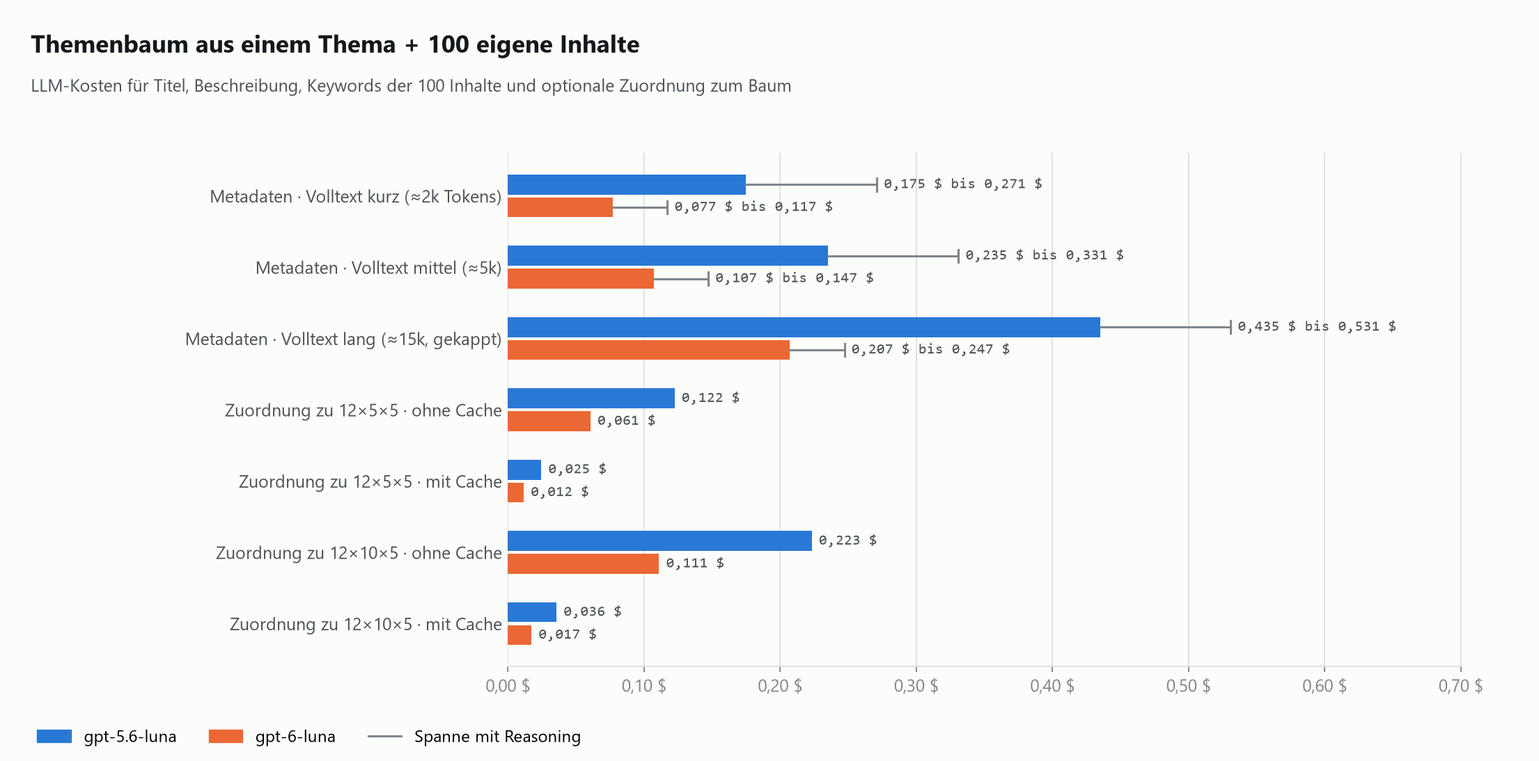
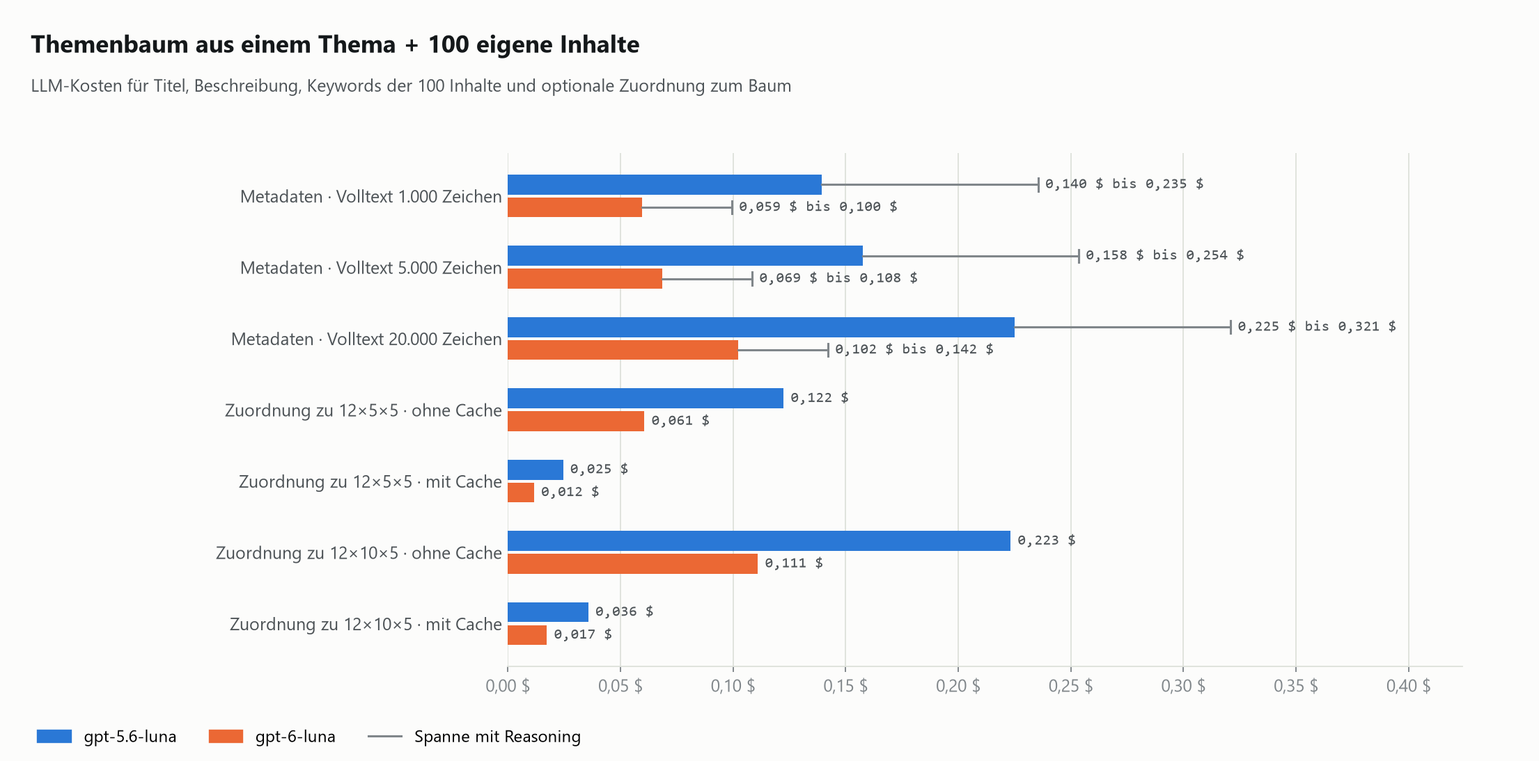
Kosten: Volltext 1.000 Zeichen, Kompendium mit Input-Caching
- Inhaltsmetadaten aus Webseiten-Volltext: Eingabe in Zeichen, Standard 1.000
  Zeichen (gemessen 0,225 Tokens je Zeichen), kein Caching je Inhalt
- Kompendium: 60–90 Tsd. Tokens je Knoten, 50–60 % Input aus dem Cache;
  Rechner mit Feld "Input aus Cache (%)", Standard 75 Tsd. / 5 Tsd. Output / 55 %
- Themenbaum aus Inhalten: Korpus = erzeugte Metadaten (+ Volltext), Caching nur
  bei diesem großen, gleichbleibenden Kontext
- Kostenmodell, Grafiken, Doku und App-Texte neu gerechnet; Übersichtsgrafik und
  interaktives Diagramm stimmen mit den Standardwerten überein

diff --git a/themenbaum/static/kosten.html b/themenbaum/static/kosten.html
@@ -110,8 +110,8 @@ code{font-family:var(--mono);font-size:.9em;background:var(--accent-soft);paddin
 
   <div class="facts">
     <div class="fact"><span class="k">Themenbaum 12×5×5 (372 Knoten)</span><span class="v">0,07 – 0,16 $</span><span class="s">73 LLM-Aufrufe; 6-luna bis 5.6-luna</span></div>
-    <div class="fact"><span class="k">Kompendium für 372 Knoten</span><span class="v">2,83 – 8,18 $</span><span class="s">60–80 Tsd. Tokens je Knoten, über 90 % der Kosten</span></div>
-    <div class="fact"><span class="k">Metadaten für 100 Inhalte</span><span class="v">0,11 – 0,24 $</span><span class="s">Titel, Beschreibung (500 Wörter), Keywords; Volltext ≈ 5 Tsd. Tokens</span></div>
+    <div class="fact"><span class="k">Kompendium für 372 Knoten</span><span class="v">1,70 – 6,12 $</span><span class="s">60–90 Tsd. Tokens je Knoten, 50–60 % Input aus dem Cache</span></div>
+    <div class="fact"><span class="k">Metadaten für 100 Inhalte</span><span class="v">0,06 – 0,14 $</span><span class="s">Titel, Beschreibung (500 Wörter), Keywords aus je 1.000 Zeichen Volltext</span></div>
     <div class="fact"><span class="k">Überarbeitungswunsch (nur Zweig)</span><span class="v">0,01 – 0,02 $</span><span class="s">ganzer Baum neu: 0,04 – 0,10 $</span></div>
   </div>
 
@@ -164,7 +164,7 @@ code{font-family:var(--mono);font-size:.9em;background:var(--accent-soft);paddin
         <label for="items">Anzahl Inhalte: <b id="itemsOut">100</b><input type="range" id="items" min="0" max="5000" step="10" value="100"></label>
         <div class="row">
           <label for="itemsExact">genau<input type="number" id="itemsExact" min="0" max="1000000" value="100"></label>
-          <label for="fulltext">Volltext-Tokens je Inhalt<input type="number" id="fulltext" value="5000" min="0" step="500"></label>
+          <label for="fulltext">Volltext je Inhalt (Zeichen)<input type="number" id="fulltext" value="1000" min="0" step="500"></label>
           <label for="metaWords">Wörter je Inhaltsbeschreibung<input type="number" id="metaWords" value="500" min="0" max="3000" step="50"></label>
         </div>
         <label class="check" for="assign"><input type="checkbox" id="assign" checked> Inhalte dem Baum zuordnen (Baum im Cache)</label>
@@ -174,8 +174,9 @@ code{font-family:var(--mono);font-size:.9em;background:var(--accent-soft);paddin
         <label class="check" for="komp"><input type="checkbox" id="komp" checked> Kompendium-Text erzeugen</label>
         <div class="row">
           <label for="kompNodes">für<select id="kompNodes"><option value="all">alle Knoten</option><option value="l12">nur Ebene 1 und 2</option></select></label>
-          <label for="kompTok">Tokens je Knoten<input type="number" id="kompTok" value="70000" min="0" step="5000"></label>
+          <label for="kompTok">Tokens je Knoten<input type="number" id="kompTok" value="75000" min="0" step="5000"></label>
           <label for="kompOut">davon Output<input type="number" id="kompOut" value="5000" min="0" step="500"></label>
+          <label for="kompHit">Input aus Cache (%)<input type="number" id="kompHit" value="55" min="0" max="100" step="5"></label>
         </div>
       </fieldset>
       <label for="runs">Läufe pro Monat<input type="number" id="runs" value="1" min="0" max="100000"></label>
@@ -195,11 +196,11 @@ code{font-family:var(--mono);font-size:.9em;background:var(--accent-soft);paddin
           <tr><td>Themenbaum 12×10×5, aktueller Code (133 Aufrufe)</td><td class="n">0,151 $</td><td class="n">0,330 $</td></tr>
           <tr><td>Themenbaum 12×10×5, Fall „hoch“ (100 Wörter + Reasoning)</td><td class="n">0,267 $</td><td class="n">0,600 $</td></tr>
           <tr><td>Überarbeitung 12×10×5: ganzer Baum / nur Zweig / Zweig + Cache</td><td class="n">0,084 / 0,020 / 0,011 $</td><td class="n">0,197 / 0,042 / 0,023 $</td></tr>
-          <tr><td>Metadaten 100 Inhalte: Volltext kurz / mittel / lang</td><td class="n">0,077 / 0,107 / 0,207 $</td><td class="n">0,175 / 0,235 / 0,435 $</td></tr>
+          <tr><td>Metadaten 100 Inhalte: Volltext 1.000 / 5.000 / 20.000 Zeichen</td><td class="n">0,060 / 0,069 / 0,102 $</td><td class="n">0,140 / 0,158 / 0,225 $</td></tr>
           <tr><td>Zuordnung 100 Inhalte zu 12×5×5: ohne / mit Cache</td><td class="n">0,061 / 0,012 $</td><td class="n">0,122 / 0,025 $</td></tr>
-          <tr><td>Baum aus 100 Inhalten 12×5×5, Volltext mittel: ohne / mit Cache</td><td class="n">3,88 / 0,49 $</td><td class="n">7,77 / 0,99 $</td></tr>
-          <tr><td>Kompendium 12×5×5 (372 Knoten)</td><td class="n">2,83 – 3,87 $</td><td class="n">5,95 – 8,18 $</td></tr>
-          <tr><td>Kompendium 12×10×5 (732 Knoten)</td><td class="n">5,56 – 7,61 $</td><td class="n">11,71 – 16,10 $</td></tr>
+          <tr><td>Baum aus 100 Inhalten 12×5×5, Metadaten + Volltext (1.000 Zeichen) im Kontext: ohne / mit Cache</td><td class="n">0,96 / 0,15 $</td><td class="n">1,94 / 0,32 $</td></tr>
+          <tr><td>Kompendium 12×5×5 (372 Knoten)</td><td class="n">1,70 – 2,83 $</td><td class="n">3,70 – 6,12 $</td></tr>
+          <tr><td>Kompendium 12×10×5 (732 Knoten)</td><td class="n">3,35 – 5,58 $</td><td class="n">7,28 – 12,03 $</td></tr>
         </tbody>
       </table></div>
       <div class="gallery">
@@ -224,8 +225,9 @@ code{font-family:var(--mono);font-size:.9em;background:var(--accent-soft);paddin
       <ul>
         <li>System-Prompt 578 Tokens; ein Knoten im Output 182 Tokens bei 60 Wörtern Beschreibung (+2 Tokens je weiterem Wort).</li>
         <li>Aufrufe: 1 für die Hauptthemen, 1 je Hauptthema, 1 je Unterthema. Die Modelle schöpfen die Obergrenzen voll aus.</li>
-        <li>Metadaten: Anweisung 582 Tokens + Volltext je Inhalt; Output 65 Tokens (Titel, Keywords) + 1,925 Tokens je Wort Beschreibung, Standard 500 Wörter ≈ 1.030 Tokens. Zuordnung: Titelliste des Baums (14 Tokens je Knoten) im Cache.</li>
-        <li>Kompendium: gemessene 60–80 Tsd. Tokens und 30–40 s je Knoten; gerechnet mit 4–6 Tsd. Output, Rest Input.</li>
+        <li>Metadaten: je Inhalt aus dem Volltext der Webseite (Standard 1.000 Zeichen ≈ 225 Tokens; 0,225 Tokens je Zeichen gemessen), Anweisung 582 Tokens, kein Caching (jeder Inhalt hat einen eigenen Volltext); Output 65 Tokens (Titel, Keywords) + 1,925 Tokens je Wort Beschreibung, Standard 500 Wörter ≈ 1.030 Tokens. Zuordnung: Titelliste des Baums (14 Tokens je Knoten) im Cache.</li>
+        <li>Kompendium: 60–90 Tsd. Tokens und 30–40 s je Knoten, davon 4–6 Tsd. Output; 50–60 % des Inputs kommen aus dem Cache (Cache-Lesepreis). Standard im Rechner: 75 Tsd., 5 Tsd. Output, 55 %.</li>
+        <li>Caching beim Themenbaum lohnt nur, wenn ein großer Kontext für jede Knotenabfrage gleich bleibt, z. B. der Korpus aller Inhalte („Themenbaum aus Inhalten“); beim normalen Baum ist der gemeinsame Teil zu klein.</li>
         <li>Tokenizer o200k als Näherung (±10–15 %). Nicht enthalten: Crawler, Hosting, Wiederholungen nach Fehlern.</li>
       </ul>
     </div>
@@ -262,8 +264,8 @@ function applyPreset(){const p=PRESETS[$("#preset").value];if(!p)return;$("#pIn"
 function params(){
   return {NM:Math.round(num("n1")),NS:Math.round(num("n2")),NL:Math.round(num("n3")),words:num("words"),R:num("reason"),
     fix:$("#code").value==="fix",loops:Math.round(num("loops")),loopMode:$("#loopMode").value,
-    n:Math.round(num("itemsExact")),ft:num("fulltext"),metaWords:num("metaWords"),assign:$("#assign").checked,
-    komp:$("#komp").checked,kompAll:$("#kompNodes").value==="all",kompTok:num("kompTok"),kompOut:num("kompOut")};
+    n:Math.round(num("itemsExact")),ft:Math.round(num("fulltext")*0.225),metaWords:num("metaWords"),assign:$("#assign").checked,
+    kompHit:Math.min(100,num("kompHit"))/100,komp:$("#komp").checked,kompAll:$("#kompNodes").value==="all",kompTok:num("kompTok"),kompOut:num("kompOut")};
 }
 function tree(p,fix){
   const extra=1.925*(p.words-60), node=190+extra, rep=245+extra;
@@ -298,8 +300,8 @@ function partTreeFromCorpus(p,pr,perItem,cached){  // Korpus aller Inhalte in je
 }
 function partKomp(p,pr){
   if(!p.komp)return {i:0,o:0,c:0,k:0};
-  const t=tree(p,p.fix),k=p.kompAll?t.nodes:p.NM+p.NM*p.NS,o=Math.min(p.kompOut,p.kompTok);
-  return {i:k*(p.kompTok-o),o:k*o,c:cost(pr,k*(p.kompTok-o),k*o),k};
+  const t=tree(p,p.fix),k=p.kompAll?t.nodes:p.NM+p.NM*p.NS,o=Math.min(p.kompOut,p.kompTok),inp=k*(p.kompTok-o);
+  return {i:inp,o:k*o,c:cost(pr,inp*(1-p.kompHit),k*o,inp*p.kompHit),k};  // Cache-Treffer zum Cache-Lesepreis
 }
 const Z={i:0,o:0,c:0};
 function useCases(p,pr){
@@ -309,7 +311,8 @@ function useCases(p,pr){
   if(p.n>0){
     cases.push({key:"own",name:`… + ${n} eigene Inhalte`,parts:{tree:tr,rev:Z,meta:partMeta(p,pr,p.assign),komp:kp}});
     const meta=partMeta(p,pr,false);
-    const a=partTreeFromCorpus(p,pr,250,true),b=partTreeFromCorpus(p,pr,250+p.ft,true),c=partTreeFromCorpus(p,pr,250+p.ft,false);
+    const metaTok=Math.round(65+1.925*p.metaWords);  // Korpus = erzeugte Metadaten je Inhalt (+ Volltext)
+    const a=partTreeFromCorpus(p,pr,metaTok,true),b=partTreeFromCorpus(p,pr,metaTok+p.ft,true),c=partTreeFromCorpus(p,pr,metaTok+p.ft,false);
     cases.push({key:"cmeta",name:`Themenbaum aus ${n} Inhalten – nur Metadaten (Cache)`,parts:{tree:a,rev:Z,meta,komp:kp},corp:a.corp});
     cases.push({key:"cft",name:`Themenbaum aus ${n} Inhalten – mit Volltext (Cache)`,parts:{tree:b,rev:Z,meta,komp:kp},corp:b.corp});
     cases.push({key:"cftnc",name:`Themenbaum aus ${n} Inhalten – mit Volltext (ohne Cache)`,parts:{tree:c,rev:Z,meta,komp:kp},corp:c.corp});

diff --git a/scripts/kostenmodell.py b/scripts/kostenmodell.py
@@ -66,27 +66,37 @@ INSTR = t(DESCRIPTION_PROMPT_TEMPLATE)+200
 # Metadaten-Output je Inhalt: Titel, Keywords, JSON (~65 Tokens) + Beschreibung (1,925 Tokens je Wort, Deutsch).
 META_WORDS = 500
 META_OUT = round(65 + 1.925 * META_WORDS)
-for label,ft in {"Volltext kurz (≈2k Tokens)":2000,"Volltext mittel (≈5k)":5000,"Volltext lang (≈15k, gekappt)":15000}.items():
-    tin=100*(INSTR+ft)
-    D["uc2"].append(dict(label=label,ft=ft,tin=tin,basis=dict(tout=100*META_OUT,**C(tin=tin,tout=100*META_OUT)),hoch=dict(tout=100*(META_OUT+800),**C(tin=tin,tout=100*(META_OUT+800)))))
+# Volltext der gecrawlten Webseite: gemessen 0,225 Tokens je Zeichen (deutsche Plattformtexte, o200k).
+TOK_PER_CHAR = 0.225
+FT_DEFAULT_CHARS = 1000
+def ft_tokens(chars): return round(chars * TOK_PER_CHAR)
+# Metadaten werden je Inhalt aus einem eigenen Volltext erzeugt: kein Prompt-Caching angesetzt.
+for label,chars in {"Volltext 1.000 Zeichen":1000,"Volltext 5.000 Zeichen":5000,"Volltext 20.000 Zeichen":20000}.items():
+    ft=ft_tokens(chars); tin=100*(INSTR+ft)
+    D["uc2"].append(dict(label=label,chars=chars,ft=ft,tin=tin,basis=dict(tout=100*META_OUT,**C(tin=tin,tout=100*META_OUT)),hoch=dict(tout=100*(META_OUT+800),**C(tin=tin,tout=100*(META_OUT+800)))))
 for s in ("12×5×5","12×10×5"):
     nodes=tree(*STRUCT[s])["nodes"]; tl=nodes*14+300
     D["assign"].append(dict(struct=s,titlelist=tl,ohne=C(tin=100*(tl+250),tout=100*60),mit=C(tin=100*250,tout=100*60,twrite=tl,tcached=99*tl)))
-# UC3: corpus of 100 contents in context of every generator call (prompt fixed + corpus as static prefix)
-CORPUS = {"nur Metadaten (≈250/Inhalt)":250, "Metadaten + Volltext kurz (≈2,25k/Inhalt)":2250, "Metadaten + Volltext mittel (≈5,25k/Inhalt)":5250}
-META_PRE = {250:5000, 2250:2000, 5250:5000}  # Metadaten-Erzeugung vorab (Volltextlänge)
+# UC3: Korpus aller 100 Inhalte (erzeugte Metadaten, wahlweise + Volltext) in jedem Generator-Aufruf.
+# Caching lohnt hier, weil der große Kontext für jede Knotenabfrage gleich bleibt (umgebaute Prompts: Korpus vorne).
+CORPUS = {"nur Metadaten":META_OUT, "Metadaten + Volltext 1.000 Zeichen":META_OUT+ft_tokens(1000),
+          "Metadaten + Volltext 5.000 Zeichen":META_OUT+ft_tokens(5000)}
+meta_default=[x for x in D["uc2"] if x["chars"]==FT_DEFAULT_CHARS][0]["basis"]
 for s in ("12×5×5","12×10×5"):
     d=tree(*STRUCT[s],fix=True)
     for label,per in CORPUS.items():
         corp=100*per+300
-        meta=[x for x in D["uc2"] if x["ft"]==META_PRE[per]][0]["basis"]
         no = C(tin=d["tin"]+d["calls"]*corp, tout=d["tout"])
         yes= {m: round(cost(m,tin=d["tin"],tout=d["tout"],twrite=corp,tcached=(d["calls"]-1)*corp),4) for m in M}
-        D["uc3"].append(dict(struct=s,label=label,corpus_tok=corp,calls=d["calls"],tin_nocache=d["tin"]+d["calls"]*corp,ohne=no,mit=yes,meta=meta))
+        D["uc3"].append(dict(struct=s,label=label,corpus_tok=corp,calls=d["calls"],tin_nocache=d["tin"]+d["calls"]*corp,ohne=no,mit=yes,meta=meta_default))
+# Kompendium je Knoten: 60–90 Tsd. Tokens, 4–6 Tsd. Output, 50–60 % des Inputs aus dem Cache (Cache-Lesepreis).
+def komp_cost(n, total, out, hit):
+    inp = total - out
+    return {m: round(cost(m, tin=n*inp*(1-hit), tout=n*out, tcached=n*inp*hit), 4) for m in M}
 for s,(a,b,c) in STRUCT.items():
     n=tree(a,b,c)["nodes"]
-    D["komp"].append(dict(struct=s,nodes=n,low=C(tin=n*56000,tout=n*4000),high=C(tin=n*74000,tout=n*6000),
-        tok_low=n*60000,tok_high=n*80000,h_seq=round(n*35/3600,1),min_par10=round(n*35/10/60)))
+    D["komp"].append(dict(struct=s,nodes=n,low=komp_cost(n,60000,4000,0.60),high=komp_cost(n,90000,6000,0.50),
+        mid=komp_cost(n,75000,5000,0.55),tok_low=n*60000,tok_high=n*90000,h_seq=round(n*35/3600,1),min_par10=round(n*35/10/60)))
 D["prices"]=P
 json.dump(D, open(sys.argv[2],"w",encoding="utf-8"), ensure_ascii=False, indent=1)
 for k in ("uc3","komp"):

diff --git a/scripts/grafiken_kosten.py b/scripts/grafiken_kosten.py
@@ -25,13 +25,13 @@ def by(a, k, v): return next(x for x in a if x[k] == v)
 
 
 def komp(st, m):
-    k = by(D["komp"], "struct", st); return (k["low"][m] + k["high"][m]) / 2
+    return by(D["komp"], "struct", st)["mid"][m]
 
 
 def overview(st):
-    u1 = by(D["uc1"], "struct", st); rev = by(D["rev"], "struct", st); asg = by(D["assign"], "struct", st); u2 = D["uc2"][1]
+    u1 = by(D["uc1"], "struct", st); rev = by(D["rev"], "struct", st); asg = by(D["assign"], "struct", st); u2 = next(x for x in D["uc2"] if x["chars"] == 1000)
     u3 = lambda p: next(x for x in D["uc3"] if x["struct"] == st and x["label"].startswith(p))
-    a, b = u3("nur Metadaten"), u3("Metadaten + Volltext mittel")
+    a, b = u3("nur Metadaten"), u3("Metadaten + Volltext 1.000")
     spec = [
         ("Themenbaum aus einem Thema", lambda m: u1["basis_ist"][m], lambda m: 0),
         ("Themenbaum aus einem Thema + 1 Überarbeitung", lambda m: u1["basis_ist"][m] + rev["basis"]["B"][m], lambda m: 0),
@@ -85,7 +85,7 @@ def plot_overview(st, fn):
     fig.legend(hs, ["Themenbaum-Erzeugung", "Inhaltsmetadaten (inkl. Zuordnung)", "Kompendium-Generierung"], loc="lower left",
                bbox_to_anchor=(0.015, 1 - 1.45 / H), ncol=3, frameon=False, fontsize=10)
     fig.text(0.02, 0.12 / H,
-             "Annahmen: 60 Wörter je Knotenbeschreibung, 500 Wörter je Inhaltsbeschreibung, kein Reasoning · 100 Inhalte à ca. 5 Tsd. Tokens Volltext · Kompendium 70 Tsd. Tokens je Knoten (Mittel aus 60–80 Tsd.)\n"
+             "Annahmen: 60 Wörter je Knotenbeschreibung, 500 Wörter je Inhaltsbeschreibung, kein Reasoning · 100 Inhalte mit je 1.000 Zeichen Volltext · Kompendium 75 Tsd. Tokens je Knoten, 55 % Input aus dem Cache\n"
              "Überarbeitung = nur betroffener Zweig neu · „Aus 100 Inhalten“ mit umgebauten Prompts und Prompt-Caching (30 min)",
              ha="left", fontsize=8.5, color=MUTED)
     fig.savefig(f"{OUT}/{fn}", dpi=170); plt.close(fig)
@@ -155,6 +155,6 @@ for st, fn in (("12×5×5", "04_baum_aus_100_inhalten_12x5x5.png"), ("12×10×5"
             rows, whisk=False, labelw=0.3)
 
 rows = [{"label": f"{k['struct']} · {k['nodes']} Knoten", "vals": [V(k["low"][m], k["high"][m], m) for m in M]} for k in D["komp"]]
-grouped("05_kompendium.png", "Kompendium-Text je Knoten", "60–80 Tsd. Tokens und 30–40 s pro Knoten · Kosten für den ganzen Baum",
-        rows, note="Spanne 60 → 80 Tsd. Tokens/Knoten")
+grouped("05_kompendium.png", "Kompendium-Text je Knoten", "60–90 Tsd. Tokens und 30–40 s pro Knoten, 50–60 % des Inputs aus dem Cache · Kosten für den ganzen Baum",
+        rows, note="Spanne 60 Tsd. (60 % Cache) → 90 Tsd. Tokens (50 % Cache)")
 print("done")

diff --git a/docs/kosten.md b/docs/kosten.md
@@ -3,53 +3,62 @@
 Diese Analyse schätzt die LLM-Kosten des bestehenden Themenbaum-Generators
 (`topic-tree-generator`, FastAPI, API 1.2.6) für drei Use Cases. Sie war der
 Anlass für diese Demo: Lässt sich die Themenbaum-Erzeugung auch **ohne generatives LLM** umsetzen?
-Die Ergebnisse sind in der App unter **Kosten** kompakt aufbereitet, mit einem Rechner für eigene Annahmen.
+Die Ergebnisse sind in der App unter **Kosten** kompakt aufbereitet, mit einem interaktiven Diagramm und einem
+Rechner für eigene Annahmen.
 
 Alle Beträge in US-Dollar. Gerechnet für **gpt-6-luna** und **gpt-5.6-luna**.
 
 ## Kurzfassung
 
 - **Der Themenbaum selbst ist günstig:** 0,07–0,16 $ für 12×5×5 (372 Knoten), 0,15–0,33 $ für 12×10×5 (732 Knoten).
-- **Ein Kompendium-Text je Sammlung dominiert** mit über 90 % der Kosten: 2,83–8,18 $ für 372 Knoten. Bei mehreren
-  hundert Knoten kommt trotz kleiner Einzelbeträge einiges zusammen.
+- **Ein Kompendium-Text je Sammlung dominiert** mit über 90 % der Kosten: 1,70–6,12 $ für 372 Knoten
+  (60–90 Tsd. Tokens je Knoten, 50–60 % des Inputs aus dem Cache). Bei mehreren hundert Knoten kommt trotz kleiner
+  Einzelbeträge einiges zusammen.
 - **Inhalte skalieren linear mit der Menge:** beschreibende Metadaten (Titel, Beschreibung mit 500 Wörtern, Keywords)
-  kosten etwa 0,11–0,24 Cent je Inhalt; Fach und Bildungsstufe laufen ohne LLM.
+  aus je rund 1.000 Zeichen Webseiten-Volltext kosten etwa 0,06–0,14 Cent je Inhalt. Fach und Bildungsstufe laufen
+  ohne LLM. Caching gibt es hier kaum, weil jeder Inhalt einen eigenen Volltext hat.
 - **Überarbeitungswünsche sind billig**, wenn nur der betroffene Zweig neu erzeugt wird (1–4 Cent).
-- **Teuer wird es nur, wenn Volltexte vieler Inhalte in jeden Aufruf wandern** und kein Prompt-Caching genutzt wird
-  (bis 14 $ je Baum).
+- **Caching beim Themenbaum lohnt nur bei großem, gleichbleibendem Kontext**, etwa wenn die Metadaten aller Inhalte in
+  jede Knotenabfrage gehen: Der Baum kostet dann 0,15–0,32 $ mit Cache statt 0,96–1,94 $ ohne.
 
 ![Kosten je Use Case, Themenbaum 12×5×5](kosten/00_uebersicht_usecases_12x5x5.png)
 
 | Use Case (12×5×5, inkl. Kompendium) | gpt-6-luna | gpt-5.6-luna |
 |---|---:|---:|
-| Themenbaum aus einem Thema | 3,42 $ | 7,22 $ |
-| … + 1 Überarbeitung | 3,43 $ | 7,25 $ |
-| … + 100 eigene Inhalte | 3,54 $ | 7,48 $ |
-| Themenbaum aus 100 Inhalten, nur Metadaten | 3,52 $ | 7,45 $ |
-| Themenbaum aus 100 Inhalten, mit Volltext (mit Cache) | 3,94 $ | 8,29 $ |
-| Themenbaum aus 100 Inhalten, mit Volltext (ohne Cache) | 7,33 $ | 15,07 $ |
+| Themenbaum aus einem Thema | 2,32 $ | 5,02 $ |
+| … + 1 Überarbeitung | 2,33 $ | 5,04 $ |
+| … + 100 eigene Inhalte | 2,39 $ | 5,18 $ |
+| Themenbaum aus 100 Inhalten, nur Metadaten (Cache) | 2,44 $ | 5,28 $ |
+| Themenbaum aus 100 Inhalten, Metadaten + Volltext (Cache) | 2,45 $ | 5,32 $ |
+| Themenbaum aus 100 Inhalten, Metadaten + Volltext (ohne Cache) | 3,27 $ | 6,94 $ |
 
-Dieselbe Übersicht für 12×10×5: [`kosten/00b_uebersicht_usecases_12x10x5.png`](kosten/00b_uebersicht_usecases_12x10x5.png).
+Kompendium je Zeile: 2,25 $ bzw. 4,86 $. Dieselbe Übersicht für 12×10×5:
+[`kosten/00b_uebersicht_usecases_12x10x5.png`](kosten/00b_uebersicht_usecases_12x10x5.png).
 
-## Preise und Methode
+## Preise und Annahmen
 
 | Modell (je 1 Mio. Tokens) | Input | Output | Cache lesen | Cache schreiben (30 min) |
 |---|---:|---:|---:|---:|
 | gpt-6-luna | 0,10 $ | 0,50 $ | 0,01 $ | 0,125 $ |
 | gpt-5.6-luna | 0,20 $ | 1,20 $ | 0,02 $ | 0,25 $ |
 
-- Die Prompts stammen 1:1 aus `src/prompts.py` des Generators, gezählt mit dem o200k-Tokenizer (Abweichung zum echten
-  Tokenizer etwa ±10–15 %).
-- Ablauf des Generators: 1 Aufruf für die Hauptthemen, 1 je Hauptthema für die Unterthemen, 1 je Unterthema für die
-  Lehrplanthemen. 12×5×5 = 73 Aufrufe, 12×10×5 = 133 Aufrufe.
-- System-Prompt 578 Tokens. Ein Knoten im Output (Titel, Kurztitel, Beschreibung, 5 Keywords) hat 182 Tokens bei
-  60 Wörtern Beschreibung, 264 Tokens bei 100 Wörtern.
-- **Inhaltsmetadaten:** Anweisung 582 Tokens + Volltext; Output 65 Tokens (Titel, Keywords) + 1,925 Tokens je Wort
-  Beschreibung. Standard 500 Wörter ≈ 1.030 Tokens. (Eine frühere Fassung rechnete mit 250 Tokens, also nur etwa
-  95 Wörtern, und lag deshalb bei 0,07–0,14 $ je 100 Inhalte.)
-- **Basis:** 60 Wörter je Knotenbeschreibung im Baum, kein Reasoning. **Hoch:** 100 Wörter und 1.000 Reasoning-Tokens je Aufruf.
-- Die Modelle schöpfen die Obergrenzen voll aus (laut Prompt sind es Höchstwerte; real entstehen eher weniger Knoten).
+- **Tokens:** Die Prompts stammen 1:1 aus `src/prompts.py` des Generators, gezählt mit dem o200k-Tokenizer
+  (Abweichung zum echten Tokenizer etwa ±10–15 %). Deutscher Text: 0,225 Tokens je Zeichen, 1,925 Tokens je Wort.
+- **Themenbaum:** 1 Aufruf für die Hauptthemen, 1 je Hauptthema, 1 je Unterthema (12×5×5 = 73 Aufrufe,
+  12×10×5 = 133). System-Prompt 578 Tokens; ein Knoten im Output 190 Tokens bei 60 Wörtern Beschreibung. Die
+  Modelle schöpfen die Obergrenzen voll aus. **Hoch:** 100 Wörter und 1.000 Reasoning-Tokens je Aufruf.
+- **Inhaltsmetadaten:** je Inhalt 1 Aufruf mit dem Volltext der Webseite (Standard 1.000 Zeichen ≈ 225 Tokens) und
+  einer Anweisung von 582 Tokens. Output 65 Tokens (Titel, Keywords) + Beschreibung mit 500 Wörtern ≈ 1.030 Tokens.
+  Kein Caching, weil jeder Aufruf einen anderen Volltext hat.
+- **Kompendium:** 60–90 Tsd. Tokens und 30–40 Sekunden je Knoten, davon 4–6 Tsd. Output; 50–60 % des Inputs kommen
+  aus dem Cache (zum Cache-Lesepreis). Mittelwert für Übersicht und Rechner: 75 Tsd. Tokens, 5 Tsd. Output, 55 %.
+- **Caching beim Themenbaum:** nur sinnvoll, wenn ein großer Kontext für jede Knotenabfrage gleich bleibt. Beim
+  normalen Baum ist der gemeinsame Teil (578 Tokens) zu klein. Beim „Themenbaum aus Inhalten“ wird der Korpus einmal
+  geschrieben (Cache-Schreibpreis) und danach zu 10 % des Input-Preises gelesen.
 - Nicht enthalten: Crawler, Hosting, Wiederholungen nach API-Fehlern.
+
+Frühere Fassungen dieser Analyse rechneten mit 250 Output-Tokens je Inhalt (≈95 Wörter Beschreibung), 5 Tsd. Tokens
+Volltext und einem Kompendium von 60–80 Tsd. Tokens ohne Caching.
 
 ## Use Case 1: Themenbaum aus einem Thema
 
@@ -82,55 +91,58 @@ müsste gestückelt werden. Variante B ist die sinnvolle Umsetzung.
 
 ## Use Case 2: Nutzer bringt 100 Inhalte mit
 
-Volltexte kommen vom Crawler, Fach und Bildungsstufe ohne LLM. Per LLM entstehen nur Titel, Beschreibung und
-Keywords (1 Aufruf je Inhalt). Optional werden die Inhalte einem bestehenden Baum zugeordnet; dort lohnt sich
-Prompt-Caching, weil die Titelliste des Baums in allen Aufrufen gleich bleibt.
+Der Crawler liefert die Volltexte der Webseiten, Fach und Bildungsstufe kommen ohne LLM aus. Per LLM entstehen nur
+Titel, Beschreibung und Keywords (1 Aufruf je Inhalt). Optional werden die Inhalte einem bestehenden Baum zugeordnet;
+dort lohnt sich Prompt-Caching, weil die Titelliste des Baums in allen Aufrufen gleich bleibt.
 
 ![Kosten für 100 Inhalte](kosten/03_100_eigene_inhalte.png)
 
-| Schritt (100 Inhalte) | gpt-6-luna | gpt-5.6-luna |
+| Schritt (100 Inhalte, Beschreibung 500 Wörter) | gpt-6-luna | gpt-5.6-luna |
 |---|---:|---:|
-| Metadaten, Volltext kurz (≈2 Tsd. Tokens) | 0,077 $ | 0,175 $ |
-| Metadaten, Volltext mittel (≈5 Tsd.) | 0,107 $ | 0,235 $ |
-| Metadaten, Volltext lang (≈15 Tsd., gekappt) | 0,207 $ | 0,435 $ |
+| Metadaten aus 1.000 Zeichen Volltext (Standard) | 0,060 $ | 0,140 $ |
+| Metadaten aus 5.000 Zeichen Volltext | 0,069 $ | 0,158 $ |
+| Metadaten aus 20.000 Zeichen Volltext | 0,102 $ | 0,225 $ |
 | Zuordnung zu 12×5×5, ohne / mit Cache | 0,061 / 0,012 $ | 0,122 / 0,025 $ |
+
+Der Output (Beschreibung) bestimmt die Kosten stärker als die Länge des Volltexts.
 
 ## Use Case 3: Struktur aus 100 Inhalten ableiten
 
-Es gibt keine Strukturvorgabe; alle 100 Inhalte gehen mit Metadaten (wahlweise mit Volltext) in **jeden** Aufruf
-des Generators. Caching wirkt stark (Korpus einmal schreiben, danach zu 10 % lesen), setzt aber umgebaute Prompts
-voraus: Korpus vorne, variable Teile hinten.
+Es gibt keine Strukturvorgabe; die erzeugten Metadaten aller 100 Inhalte (≈1.030 Tokens je Inhalt), wahlweise mit
+Volltext, gehen in **jeden** Aufruf des Generators. Caching wirkt stark, weil dieser Kontext für jede Knotenabfrage
+gleich bleibt; dafür müssen die Prompts umgebaut werden (Korpus vorne, variable Teile hinten).
 
 ![Baum aus 100 Inhalten, 12×5×5](kosten/04_baum_aus_100_inhalten_12x5x5.png)
 
-| Korpus im Kontext (12×5×5) | ohne Cache (6 / 5.6) | mit Cache (6 / 5.6) |
-|---|---:|---:|
-| nur Metadaten (≈250 Tokens je Inhalt) | 0,23 / 0,47 $ | 0,07 / 0,15 $ |
-| + Volltext kurz (≈2,25 Tsd.) | 1,69 / 3,39 $ | 0,23 / 0,48 $ |
-| + Volltext mittel (≈5,25 Tsd.) | 3,88 / 7,77 $ | 0,49 / 0,99 $ |
+| Korpus im Kontext (12×5×5) | Tokens je Aufruf | ohne Cache (6 / 5.6) | mit Cache (6 / 5.6) |
+|---|---:|---:|---:|
+| nur Metadaten | 103 Tsd. | 0,80 / 1,61 $ | 0,13 / 0,28 $ |
+| Metadaten + Volltext 1.000 Zeichen | 126 Tsd. | 0,96 / 1,94 $ | 0,15 / 0,32 $ |
+| Metadaten + Volltext 5.000 Zeichen | 216 Tsd. | 1,62 / 3,25 $ | 0,23 / 0,47 $ |
 
-12×10×5: [`kosten/04b_baum_aus_100_inhalten_12x10x5.png`](kosten/04b_baum_aus_100_inhalten_12x10x5.png) (bis 14,17 $ ohne Cache).
-**Kontextfenster:** 100 Volltexte à 5 Tsd. Tokens ergeben rund 525 Tsd. Tokens je Aufruf. Das sprengt viele
-Kontextfenster; dann Volltexte auf etwa 2 Tsd. Tokens kappen oder zweistufig arbeiten.
+12×10×5: [`kosten/04b_baum_aus_100_inhalten_12x10x5.png`](kosten/04b_baum_aus_100_inhalten_12x10x5.png)
+(bis 5,94 $ ohne Cache). Bei längeren Volltexten oder mehr Inhalten wird das Kontextfenster zur Grenze; der Rechner
+warnt ab 400 Tsd. Tokens je Aufruf.
 
 ## Kompendium-Text je Sammlung
 
-Nach Messung 60–80 Tsd. Tokens und 30–40 Sekunden je Knoten, gerechnet mit 4–6 Tsd. Output-Tokens.
+60–90 Tsd. Tokens und 30–40 Sekunden je Knoten, davon 4–6 Tsd. Output, 50–60 % des Inputs aus dem Cache.
 
 ![Kosten der Kompendium-Texte](kosten/05_kompendium.png)
 
 | Baum | Knoten | gpt-6-luna | gpt-5.6-luna | Laufzeit seriell | bei 10 parallel |
 |---|---:|---:|---:|---:|---:|
-| 5×3×2 | 50 | 0,38–0,52 $ | 0,80–1,10 $ | 0,5 h | 3 min |
-| 12×5×5 | 372 | 2,83–3,87 $ | 5,95–8,18 $ | 3,6 h | 22 min |
-| 12×10×5 | 732 | 5,56–7,61 $ | 11,71–16,10 $ | 7,1 h | 43 min |
+| 5×3×2 | 50 | 0,23–0,38 $ | 0,50–0,82 $ | 0,5 h | 3 min |
+| 12×5×5 | 372 | 1,70–2,83 $ | 3,70–6,12 $ | 3,6 h | 22 min |
+| 12×10×5 | 732 | 3,35–5,58 $ | 7,28–12,03 $ | 7,1 h | 43 min |
 
-Nur Ebene 1 und 2 mit Kompendium (132 statt 732 Knoten) senkt Kosten und Zeit um 82 %.
+Untere Grenze: 60 Tsd. Tokens mit 60 % Cache-Treffern; obere Grenze: 90 Tsd. Tokens mit 50 %. Nur Ebene 1 und 2 mit
+Kompendium (132 statt 732 Knoten) senkt Kosten und Zeit um 82 %.
 
 ## Befunde im bestehenden Generator, die Kosten treiben
 
 1. **Ganze Objekte statt Titel im Prompt** (`main.py:230`, `main.py:270`): `f"- {main_topic_title}"` über
-   `main_topics` schreibt das ganze `Collection`-Objekt samt Beschreibung und URIs in den Prompt (≈238 Tokens je
+   `main_topics` schreibt das ganze `Collection`-Objekt samt Beschreibung und URIs in den Prompt (≈245 Tokens je
    Eintrag). Bei 12×10×5 sind das 80 % des Inputs; mit `.title` wird ein Baum 35–43 % günstiger.
 2. **Die Wortgrenze kommt nie an** (`src/prompts.py:47`): `{max_description_length}` in `BASE_INSTRUCTIONS` wird nie
    formatiert; die Templates haben den Platzhalter nicht. Beschreibungen werden eher länger.
@@ -150,10 +162,10 @@ Nur Ebene 1 und 2 mit Kompendium (132 statt 732 Knoten) senkt Kosten und Zeit um
 
 ## Nachrechnen
 
-- **Rechner in der App** (Bereich „Kosten“): Inhaltsmenge, Anpassungsschleifen, Baumgröße, Preise und Kompendium frei
-  einstellbar; das Diagramm aller Use Cases rechnet live mit. Es nutzt dieselben Formeln wie `scripts/kostenmodell.py`
-  (190 Tokens je Knoten bei 60 Wörtern, 245 Tokens je Objekt in den Kontextlisten) und ergibt mit den Standardwerten
-  genau die Werte der Übersichtsgrafik.
+- **Rechner in der App** (Bereich „Kosten“): Inhaltsmenge, Volltextlänge, Beschreibungslänge, Anpassungsschleifen,
+  Baumgröße, Kompendium (Tokens, Cache-Quote) und Preise frei einstellbar; das Diagramm aller Use Cases rechnet live
+  mit. Es nutzt dieselben Formeln wie `scripts/kostenmodell.py` und ergibt mit den Standardwerten genau die Werte der
+  Übersichtsgrafik.
 - **Skripte:** [`scripts/kostenmodell.py`](../scripts/kostenmodell.py) zählt die Tokens aus einem Checkout des
   Generators und schreibt [`data/kosten.json`](../data/kosten.json);
   [`scripts/grafiken_kosten.py`](../scripts/grafiken_kosten.py) erzeugt daraus die Grafiken in `docs/kosten/`.

diff --git a/README.md b/README.md
@@ -33,8 +33,9 @@ Hintergrund laufen. Die App ist **passwortgeschützt** (Login beim Aufruf).
 - **Inhalte → Baum:** Embeddings + hierarchisches Clustering trifft bei 100 Beispielinhalten 64 % Reinheit
   (mpnet, ARI 0,39); model2vec mit Substantiven 59 % bei etwa 300-facher Geschwindigkeit. Hybride (Namen aus
   Wikipedia oder einer Wikidata-Taxonomie) liefern die besten Namen und echte Beschreibungen.
-- **Kosten mit LLM:** Ein Themenbaum 12×5×5 kostet 0,07–0,16 $, ein Kompendium-Text je Sammlung 2,83–8,18 $ für
-  372 Knoten. Metadaten für Inhalte skalieren linear (etwa 0,11–0,24 Cent je Inhalt bei 500 Wörtern Beschreibung).
+- **Kosten mit LLM:** Ein Themenbaum 12×5×5 kostet 0,07–0,16 $, ein Kompendium-Text je Sammlung 1,70–6,12 $ für
+  372 Knoten (60–90 Tsd. Tokens, 50–60 % Input-Cache). Metadaten für Inhalte skalieren linear (etwa 0,06–0,14 Cent
+  je Inhalt aus 1.000 Zeichen Volltext mit 500 Wörtern Beschreibung).
 
 ## Schnellstart lokal
 
